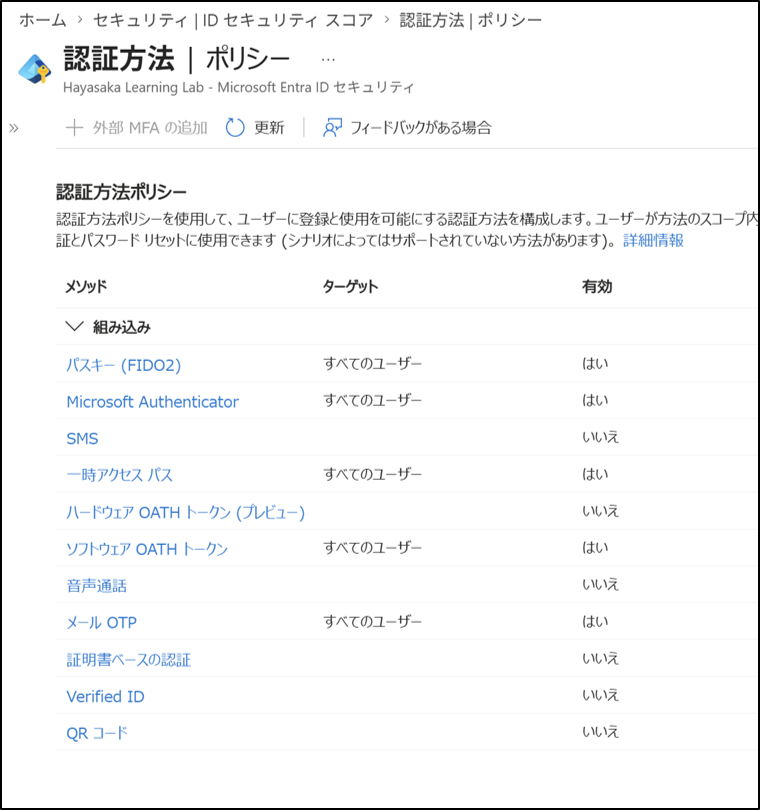
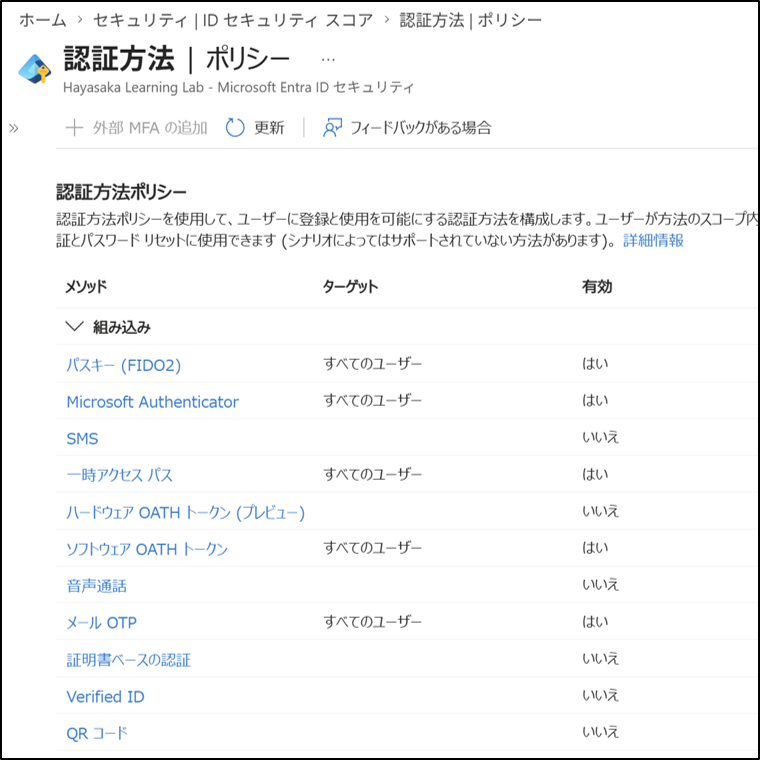
Add SSPR

diff --git a/portfolio/sspr.md b/portfolio/sspr.md
@@ -1,0 +1,61 @@
+# **SSPR（Self-Service Password Reset）**
+
+## 1. 目的  
+ユーザー自身がパスワードをリセットできるようにするため、
+Entra ID の **自己サービス パスワード リセット（SSPR）** を有効化し、
+認証方法の登録と動作確認を行う。
+
+## 2. 設計  
+- 対象ユーザー  
+  - Test.User-01  
+- 有効化する機能  
+  - Self-Service Password Reset（SSPR）  
+- 必要な認証方法  
+  - Microsoft Authenticator  
+  - メール OTP  
+  - 一時アクセスパス（任意）
+
+## 3. 手順（GUI）
+### 3-1. SSPR の有効化  
+1. Microsoft Entra 管理センターへアクセス
+2. **パスワード リセット** を選択  
+3. **プロパティ → 自己サービス パスワード リセットを有効化**  
+4. 対象：**すべてのユーザー**
+
+<img src="../images/sspr-enable.png" width="300">
+
+### 3-2. 認証方法ポリシーの確認  
+1. **認証方法 → ポリシー**  
+2. 有効化されている認証方法を確認  
+   - Microsoft Authenticator：はい  
+   - メール OTP：はい  
+   - 一時アクセスパス：はい  
+
+<img src="../images/auth-methods-policy-2.png" width="300">
+
+### 3-3. ユーザー側：認証方法の登録  
+1. **ユーザー → Test.User-01**  
+2. **認証方法** を開く  
+3. **認証方法の追加**  
+4. QRコード（Microsoft Authenticator） / メール OTP を登録
+
+<img src="../images/user-auth-methods-2.png" width="300">
+
+### 3-4. SSPR の動作確認  
+1. サインイン画面で **「パスワードを忘れた場合」** を選択  
+2. 登録済みの認証方法で本人確認  
+3. 新しいパスワードを設定  
+4. 正常にサインインできることを確認
+
+<img src="../images/sspr-flow.png" width="300">
+
+
+## 4. 結果  
+- SSPR が有効化されている
+- Test.User-01 が認証方法を登録済み
+- パスワードリセットがユーザー自身で可能になった
+
+## 5. 学び  
+- SSPR は「認証方法の登録」が必須  
+- 管理者設定（パスワード リセット）とユーザー設定（認証方法）の **二段階構造**  
+- 認証方法ポリシーと SSPR の関係性を理解した  

diff --git a/README.md b/README.md
@@ -33,16 +33,20 @@
 
 <img src="images/auth-methods-policy.png" width="300">
 
+<!--
 - [条件付きアクセス（MFA 要求） ライセンス無しのため保留](portfolio/entra-ca.md)
-
 <img src="images/ca-policy-list.png" width="300">
+-->
+
+- [SSPR（Self-Service Password Reset）](/portfolio/sspr.md)
+
+<img src="images/sspr.png" width="300">
 
 #### このページは、GitHub、VSCode、Markdownを使用して作成しました。
 
 ---
 ### 以下作成中
 
-- SSPR  
 - ログ監査  
 
 ### 監視（Azure Monitor / Log Analytics）